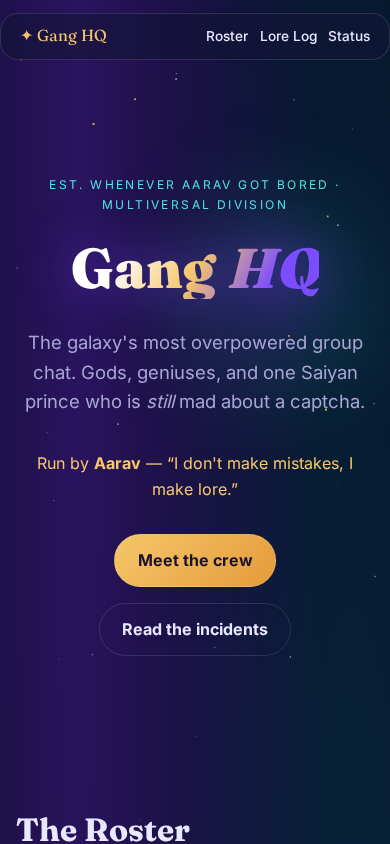
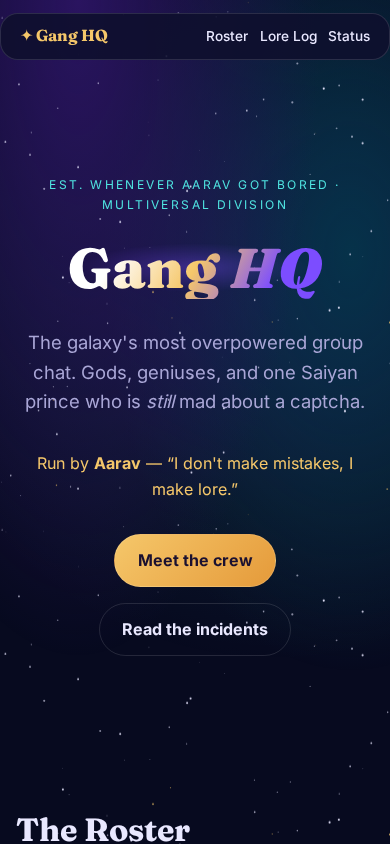
Perf v2: static pre-rendered star layers w/ CSS compositor twinkle, no nav blur, no content-visibility, slimmer fonts/shadows

diff --git a/css/style.css b/css/style.css
@@ -1,17 +1,22 @@
 :root{--bg:#070a1f;--navy:#0d1236;--violet:#7c4dff;--gold:#f5c76a;--aqua:#4fe3e0;--text:#e9e8ff;--muted:#a9a6d6;--glass:rgba(20,22,60,.45);--line:rgba(255,255,255,.12)}
 *{box-sizing:border-box}html{scroll-behavior:smooth}
-body{margin:0;font-family:Inter,system-ui,sans-serif;color:var(--text);background:radial-gradient(ellipse at 20% 0%,#2a1460 0%,transparent 55%),radial-gradient(ellipse at 90% 30%,#06324a 0%,transparent 50%),var(--bg);min-height:100vh;line-height:1.6}
-#stars{position:fixed;inset:0;width:100%;height:100%;z-index:-1;pointer-events:none;contain:strict}
+body{margin:0;font-family:Inter,system-ui,sans-serif;color:var(--text);background:var(--bg);min-height:100vh;line-height:1.6}
+#stars{position:fixed;inset:0;z-index:-1;pointer-events:none;overflow:hidden;contain:strict;transform:translateZ(0)}
+.neb{position:absolute;inset:0;background:radial-gradient(ellipse at 20% 0%,#2a1460 0%,transparent 55%),radial-gradient(ellipse at 90% 30%,#06324a 0%,transparent 50%),radial-gradient(circle at 70% 35%,rgba(124,77,255,.18),rgba(79,227,224,.05) 35%,transparent 60%)}
+.sl{position:absolute;left:0;right:0;top:-512px;bottom:0;background-size:512px 512px;will-change:transform;animation:drift 60s linear infinite}
+.sl1{animation:drift 40s linear infinite,tw 3.2s ease-in-out infinite alternate}
+.sl2{animation:drift 25s linear infinite,tw 2.1s ease-in-out infinite alternate-reverse}
+@keyframes drift{to{transform:translate3d(0,512px,0)}}@keyframes tw{from{opacity:1}to{opacity:.25}}
 h1,h2,h3{font-family:Fraunces,serif;line-height:1.1}
 a{color:var(--aqua)}
 .skip{position:absolute;left:-999px}.skip:focus{left:1rem;top:1rem;z-index:99;background:var(--gold);color:#000;padding:.5rem}
 .glass{background:rgba(18,20,54,.78);border:1px solid var(--line);border-radius:18px}
-.nav{backdrop-filter:blur(8px);-webkit-backdrop-filter:blur(8px);background:rgba(18,20,54,.6);position:sticky;top:.8rem;margin:.8rem auto;max-width:1100px;display:flex;justify-content:space-between;align-items:center;padding:.6rem 1.2rem;z-index:10}
+.nav{background:rgba(14,16,46,.9);position:sticky;top:.8rem;margin:.8rem auto;max-width:1100px;display:flex;justify-content:space-between;align-items:center;padding:.6rem 1.2rem;z-index:10}
 .nav a{text-decoration:none;color:var(--text);margin-left:1.2rem;font-weight:500}.logo{font-family:Fraunces;font-weight:900;color:var(--gold)!important;margin:0!important}
 .hero{min-height:88vh;display:flex;flex-direction:column;justify-content:center;align-items:center;text-align:center;padding:2rem 1rem}
 .eyebrow{letter-spacing:.2em;text-transform:uppercase;font-size:.75rem;color:var(--aqua)}
-.hero h1{font-size:clamp(3.5rem,12vw,9rem);margin:.2em 0;font-weight:900;background:linear-gradient(120deg,#fff 20%,var(--gold) 50%,var(--violet) 80%);-webkit-background-clip:text;background-clip:text;color:transparent;text-shadow:none;filter:drop-shadow(0 0 24px rgba(124,77,255,.5))}
-.hero h1 span{font-style:italic}
+.hero h1{font-size:clamp(3.5rem,12vw,9rem);margin:.2em 0;font-weight:900;background:linear-gradient(120deg,#fff 20%,var(--gold) 50%,var(--violet) 80%);-webkit-background-clip:text;background-clip:text;color:transparent;text-shadow:none}
+.hero h1{position:relative}.hero h1::before{content:"";position:absolute;inset:10% 5%;z-index:-1;background:radial-gradient(closest-side,rgba(124,77,255,.35),transparent);pointer-events:none}.hero h1 span{font-style:italic}
 
 .lead{max-width:640px;font-size:1.15rem;color:var(--muted)}.boss{color:var(--gold)}
 .cta{display:flex;gap:1rem;flex-wrap:wrap;justify-content:center;margin-top:1rem}
@@ -19,18 +24,18 @@ a{color:var(--aqua)}
 .btn.gold{background:linear-gradient(135deg,var(--gold),#e59a3a);color:#1a1030}.btn.ghost{background:transparent;color:var(--text)}
 .btn:hover,.btn:focus-visible{transform:translateY(-2px)}.btn.gold:hover{background:linear-gradient(135deg,#ffd98a,#f0a84a)}
 :focus-visible{outline:2px solid var(--aqua);outline-offset:3px}
-.section{content-visibility:auto;contain-intrinsic-size:auto 900px;max-width:1100px;margin:0 auto;padding:4rem 1rem}
+.section{max-width:1100px;margin:0 auto;padding:4rem 1rem}
 .section h2{font-size:clamp(2rem,5vw,3.2rem);margin:0}.sub{color:var(--muted);margin-top:.3rem}
 .grid{display:grid;grid-template-columns:repeat(auto-fill,minmax(230px,1fr));gap:1.2rem;margin-top:2rem}
 .card{position:relative;padding:1.2rem;text-align:left;color:var(--text);font:inherit;cursor:pointer;overflow:hidden;transition:transform .35s cubic-bezier(.2,.8,.2,1),border-color .35s}
-.card::after{content:"";position:absolute;inset:0;border-radius:inherit;box-shadow:0 18px 50px -10px var(--c);opacity:0;transition:opacity .35s;pointer-events:none}.card:hover::after,.card:focus-visible::after{opacity:1}
+.card::after{content:"";position:absolute;inset:0;border-radius:inherit;box-shadow:0 10px 26px -8px var(--c);opacity:0;transition:opacity .35s;pointer-events:none}.card:hover::after,.card:focus-visible::after{opacity:1}
 .card:hover,.card:focus-visible{transform:translateY(-6px) rotate(-.5deg);border-color:var(--c)}
 .card svg{width:100%;height:120px;display:block;margin-bottom:.8rem;border-radius:12px}
 .card h3{margin:.2rem 0;font-size:1.35rem}.card p{margin:0;color:var(--muted);font-size:.9rem}
 .tag{display:inline-block;font-size:.7rem;letter-spacing:.1em;text-transform:uppercase;color:var(--c);border:1px solid var(--c);border-radius:999px;padding:.1rem .6rem;margin-top:.6rem}
-.panel{max-width:640px;width:calc(100% - 2rem);color:var(--text);padding:1.6rem;max-height:90vh;overflow:auto}
+.panel{background:rgba(18,20,54,.97);max-width:640px;width:calc(100% - 2rem);color:var(--text);padding:1.6rem;max-height:90vh;overflow:auto}
 .panel::backdrop{background:rgba(3,4,15,.8)}
-.panel[open]{animation:pop .35s cubic-bezier(.2,.8,.2,1)}@keyframes pop{from{opacity:0;transform:scale(.94) translateY(10px)}}
+.panel[open]{animation:pop .35s cubic-bezier(.2,.8,.2,1)}@keyframes pop{from{opacity:0;transform:translate3d(0,10px,0)}}
 .close{position:absolute;right:1rem;top:.6rem;background:none;border:0;color:var(--text);font-size:2rem;cursor:pointer}
 .meter{height:10px;background:rgba(255,255,255,.08);border-radius:99px;overflow:hidden}.meter i{display:block;height:100%;transform-origin:left;background:linear-gradient(90deg,var(--aqua),var(--gold),#ff4d6d);border-radius:99px;transition:width 1s}
 .panel blockquote{margin:.5rem 0;padding:.5rem 1rem;border-left:3px solid var(--gold);background:rgba(255,255,255,.04);border-radius:0 10px 10px 0;font-family:Fraunces;font-style:italic}

diff --git a/js/app.js b/js/app.js
@@ -2,21 +2,13 @@
 const RM=matchMedia('(prefers-reduced-motion: reduce)').matches;
 const $=s=>document.querySelector(s);
 const esc=s=>String(s).replace(/[&<>"']/g,c=>({'&':'&amp;','<':'&lt;','>':'&gt;','"':'&quot;',"'":'&#39;'}[c]));
-/* starfield: DPR-capped, nebula pre-rendered offscreen, 30fps, paused when hidden/off-screen */
-const cv=$('#stars'),cx=cv.getContext('2d',{alpha:true});let W,H,DPR,st=[],neb=document.createElement('canvas'),run=true,last=0,raf=0;
-function size(){DPR=Math.min(1.25,devicePixelRatio||1);W=cv.width=innerWidth*DPR|0;H=cv.height=innerHeight*DPR|0;
- st=Array.from({length:Math.min(140,W*H/9000|0)},()=>({x:Math.random()*W,y:Math.random()*H,z:Math.random()*.9+.1,t:Math.random()*6,s:0}));
- st.forEach(s=>s.s=Math.max(1,s.z*2*DPR));
- neb.width=W;neb.height=H;const n=neb.getContext('2d'),g=n.createRadialGradient(W*.7,H*.35,0,W*.7,H*.35,W*.5);g.addColorStop(0,'rgba(124,77,255,.18)');g.addColorStop(.5,'rgba(79,227,224,.05)');g.addColorStop(1,'rgba(0,0,0,0)');n.fillStyle=g;n.fillRect(0,0,W,H)}
-function draw(t){cx.clearRect(0,0,W,H);cx.drawImage(neb,0,0);
- for(const s of st){cx.globalAlpha=(.5+.5*Math.sin(t/700+s.t))*s.z;cx.fillStyle=s.z>.8?'#f5c76a':'#e9e8ff';cx.fillRect(s.x,s.y,s.s,s.s);if(!RM){s.y+=s.z*.6;if(s.y>H)s.y=0}}
- cx.globalAlpha=1}
-function loop(t){raf=0;if(!run)return;if(t-last>=33){last=t;draw(t)}raf=requestAnimationFrame(loop)}
-function setRun(v){run=v&&!RM&&!document.hidden;if(run&&!raf)raf=requestAnimationFrame(loop)}
-let rt;addEventListener('resize',()=>{clearTimeout(rt);rt=setTimeout(()=>{size();draw(performance.now())},150)},{passive:true});
-size();draw(0);setRun(true);
-document.addEventListener('visibilitychange',()=>setRun(heroVis));
-let heroVis=true;if('IntersectionObserver' in window)new IntersectionObserver(([e])=>{heroVis=e.isIntersecting;setRun(heroVis)}).observe($('.hero'));
+/* starfield: stars pre-rendered ONCE into images; CSS layers twinkle/drift on the compositor (transform/opacity only). Zero per-frame JS. */
+(function(){const host=$('#stars');const T=512;
+ function tile(n,gold,seed){const c=document.createElement('canvas');c.width=c.height=T;const x=c.getContext('2d');let r=seed;const rnd=()=>(r=(r*16807)%2147483647)/2147483647;
+  for(let i=0;i<n;i++){const z=rnd()*.9+.1,sz=z*1.8+.4;x.globalAlpha=.35+z*.65;x.fillStyle=rnd()<gold?'#f5c76a':'#e9e8ff';x.beginPath();x.arc(rnd()*T,rnd()*T,sz/2,0,6.283);x.fill()}
+  return c.toDataURL('image/png')}
+ [[70,.05,7],[40,.2,99],[22,.4,1234]].forEach(([n,g,sd],i)=>{const d=document.createElement('div');d.className='sl sl'+i;d.style.backgroundImage=`url(${tile(n,g,sd)})`;host.appendChild(d)});
+})();
 /* procedural avatars */
 function avatar(c){const shapes={
  crown:`<path d="M60 80 L80 40 L100 70 L120 30 L140 70 L160 40 L180 80 Z" fill="${c.color}"/>`,

diff --git a/index.html b/index.html
@@ -5,12 +5,12 @@
 <title>Gang HQ</title>
 <meta name="description" content="Gang HQ — headquarters of Aarav's extremely unserious crew.">
 <link rel="preconnect" href="https://fonts.googleapis.com"><link rel="preconnect" href="https://fonts.gstatic.com" crossorigin>
-<link href="https://fonts.googleapis.com/css2?family=Fraunces:opsz,wght@9..144,400;9..144,700;9..144,900&family=Inter:wght@400;500;700&display=swap" rel="stylesheet">
+<link href="https://fonts.googleapis.com/css2?family=Fraunces:ital,wght@0,700;0,900;1,900&family=Inter:wght@400;500;700&display=swap" rel="stylesheet">
 <link rel="stylesheet" href="css/style.css">
 </head>
 <body>
 <a class="skip" href="#main">Skip to content</a>
-<canvas id="stars" aria-hidden="true"></canvas>
+<div id="stars" aria-hidden="true"><div class="neb"></div></div>
 <header class="nav glass">
   <a href="#top" class="logo">✦ Gang HQ</a>
   <nav aria-label="Main"><a href="#roster">Roster</a><a href="#lore">Lore Log</a><a href="#status">Status</a></nav>
